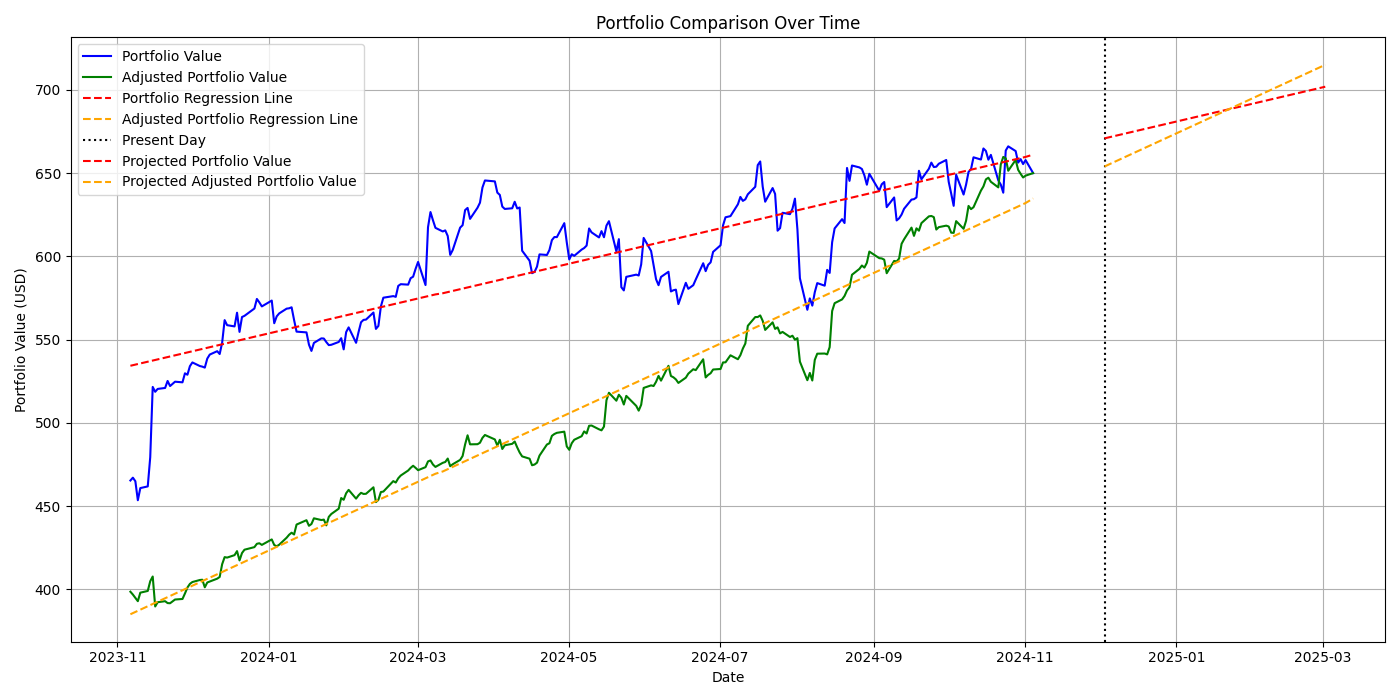
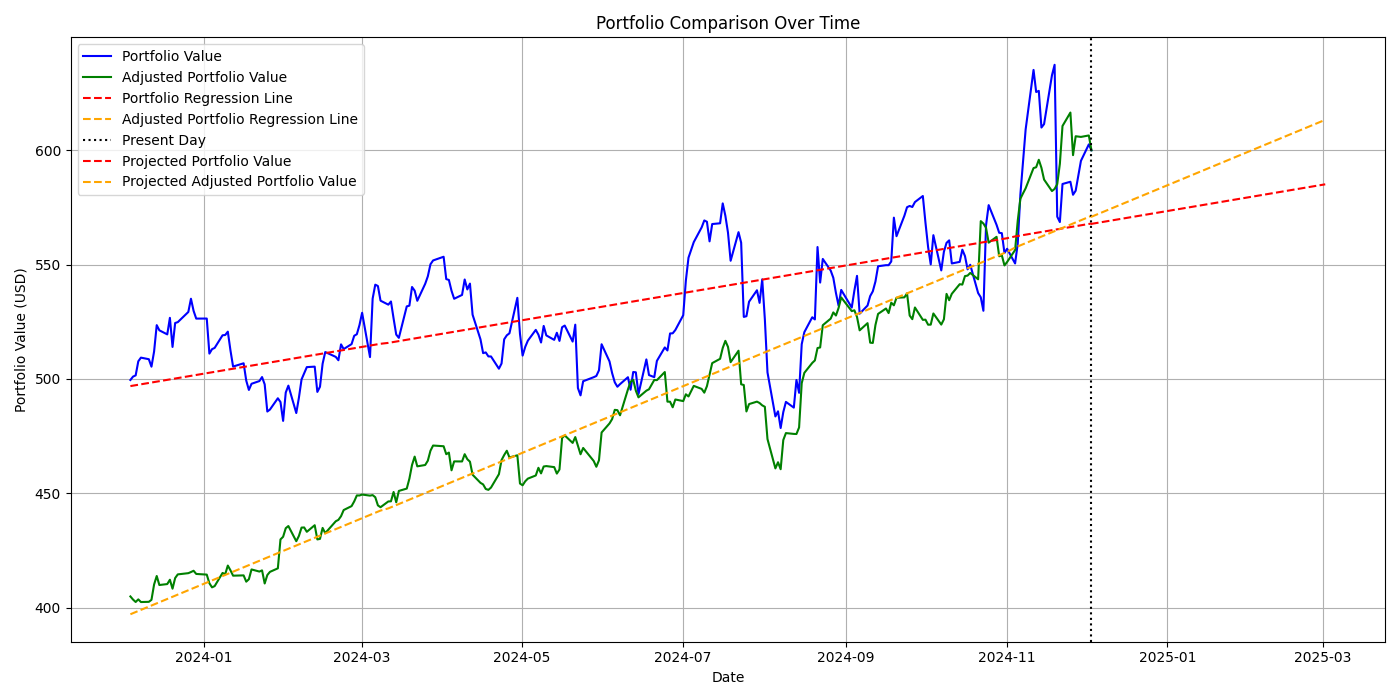
changed results page GUI

diff --git a/templates/results.html b/templates/results.html
@@ -20,18 +20,130 @@
         .data-table th {
             background-color: #f2f2f2;
         }
+        .flex-container {
+            display: flex;
+            flex-wrap: wrap;
+            gap: 20px;
+            align-items: center;
+            justify-content: center;
+            margin-bottom: 40px;
+        }
+        .flex-item {
+            flex: 1 1 45%;
+            max-width: 45%;
+            text-align: center;
+        }
+        .flex-item img {
+            width: 100%;
+            height: auto;
+            max-width: 500px;
+            margin-top: 20px;
+        }
+        .section {
+            margin-bottom: 40px;
+        }
     </style>
 </head>
+<script>
+    // Wait for the document to fully load
+    document.addEventListener("DOMContentLoaded", function () {
+        // Select all tables with the class 'data-table'
+        const tables = document.querySelectorAll(".data-table");
+
+        tables.forEach(table => {
+            // Add rounded corners to the table
+            table.style.borderCollapse = "separate";
+            table.style.borderSpacing = "0";
+            table.style.borderRadius = "8px";
+            table.style.overflow = "hidden";
+
+            // Add box shadow for aesthetics
+            table.style.boxShadow = "0px 4px 10px rgba(0, 0, 0, 0.1)";
+
+            // Adjust font size and cell padding
+            table.style.fontSize = "16px";
+            const cells = table.querySelectorAll("th, td");
+            cells.forEach(cell => {
+                cell.style.padding = "12px";
+                cell.style.border = "1px solid #ddd";
+                cell.style.textAlign = "center";
+            });
+
+            // Style the header row
+            const headers = table.querySelectorAll("th");
+            headers.forEach(header => {
+                header.style.backgroundColor = "#f2f2f2";
+            });
+
+            // Add hover effect for table rows
+            const rows = table.querySelectorAll("tbody tr");
+            rows.forEach(row => {
+                row.addEventListener("mouseover", () => {
+                    row.style.backgroundColor = "#f1f1f1";
+                });
+                row.addEventListener("mouseout", () => {
+                    row.style.backgroundColor = "";
+                });
+            });
+
+            // Highlight volatility cells based on their values
+            const volatilityCells = table.querySelectorAll("td:nth-child(3)"); // Assuming the 3rd column is Volatility
+            volatilityCells.forEach(cell => {
+                const value = cell.textContent.trim();
+
+                // Apply background color based on volatility category
+                if (value === "Low Volatility") {
+                    cell.style.backgroundColor = "#d4edda"; // Greenish
+                } else if (value === "Moderate Volatility") {
+                    cell.style.backgroundColor = "#fff3cd"; // Yellowish
+                } else if (value === "High Volatility") {
+                    cell.style.backgroundColor = "#f8d7da"; // Light Reddish
+                } else if (value === "Extreme Volatility") {
+                    cell.style.backgroundColor = "#f5c6cb"; // Darker Reddish
+                }
+            });
+        });
+    });
+</script>
+
 <body>
     <h1>Stock Data Results</h1>
-    <div class="results-container">
-        <table class="data-table">
-            {{ tables | safe }}
-        </table>
+
+    <div class="section">
+        <h2>User Portfolio</h2>
+        <div class="flex-container">
+            <div class="flex-item">
+                <table class="data-table">
+                    {{ table1 | safe }}
+                </table>
+            </div>
+            <div class="flex-item">
+                <img src="{{ url_for('static', filename='images/user_portfolio_projection.png') }}" alt="User Portfolio Projection">
+            </div>
+        </div>
     </div>
-    <div class="plot-container">
-        <h2>Portfolio Comparison Plot</h2>
-        <img src="{{ url_for('static', filename='images/portfolio_plot.png') }}" alt="Portfolio Comparison Plot">
+
+    <div class="section">
+        <h2>Suggested Portfolio</h2>
+        <div class="flex-container">
+            <div class="flex-item">
+                <table class="data-table">
+                    {{ table2 | safe }}
+                </table>
+            </div>
+            <div class="flex-item">
+                <img src="{{ url_for('static', filename='images/suggested_portfolio_projection.png') }}" alt="Suggested Portfolio Projection">
+            </div>
+        </div>
+    </div>
+
+    <div class="section">
+        <h2>Comparison of Regression Lines</h2>
+        <div class="flex-container">
+            <div class="flex-item">
+                <img src="{{ url_for('static', filename='images/comparison_regression_lines.png') }}" alt="Comparison of Regression Lines">
+            </div>
+        </div>
     </div>
 </body>
 </html>

diff --git a/volatility.py b/volatility.py
@@ -4,7 +4,6 @@ import pandas as pd
 import matplotlib.pyplot as plt
 import numpy as np
 
-tickers = ['AAPL', 'GOOGL', 'AMZN', 'MSFT', 'TSLA']
 
 def calculate_volatility(ticker):
     stock = yf.Ticker(ticker)
@@ -12,7 +11,7 @@ def calculate_volatility(ticker):
     volatility = hist['Close'].pct_change().std() * (252 ** 0.5)
     return volatility
 
-def plot_two_portfolios_with_regression(portfolio_list, adjusted_portfolio_list, amount, close_prices_df):
+def plot_three_portfolios_with_regression(portfolio_list, adjusted_portfolio_list, amount, close_prices_df):
     # Ensure the 'Date' column is in datetime format and convert to UTC (or remove timezone)
     close_prices_df['Date'] = pd.to_datetime(close_prices_df['Date'], utc=True).dt.tz_convert(None)
 
@@ -29,69 +28,120 @@ def plot_two_portfolios_with_regression(portfolio_list, adjusted_portfolio_list,
     portfolio_value = calculate_portfolio_value(portfolio_list, amount, close_prices_df)
     adjusted_portfolio_value = calculate_portfolio_value(adjusted_portfolio_list, amount, close_prices_df)
 
-    # Plot the portfolio values
-    plt.figure(figsize=(14, 7))
-    plt.plot(portfolio_value.index, portfolio_value, label='Portfolio Value', color='blue')
-    plt.plot(adjusted_portfolio_value.index, adjusted_portfolio_value, label='Adjusted Portfolio Value', color='green')
-
-    # Add regression lines for both portfolios
+    # Calculate regression lines
     date_numeric = (portfolio_value.index - portfolio_value.index.min()).days
-    coefficients = np.polyfit(date_numeric, portfolio_value, 1)
-    regression_line = np.polyval(coefficients, date_numeric)
-    plt.plot(portfolio_value.index, regression_line, label='Portfolio Regression Line', color='red', linestyle='--')
+    portfolio_coefficients = np.polyfit(date_numeric, portfolio_value, 1)
+    portfolio_regression_line = np.polyval(portfolio_coefficients, date_numeric)
 
     adjusted_date_numeric = (adjusted_portfolio_value.index - adjusted_portfolio_value.index.min()).days
     adjusted_coefficients = np.polyfit(adjusted_date_numeric, adjusted_portfolio_value, 1)
     adjusted_regression_line = np.polyval(adjusted_coefficients, adjusted_date_numeric)
-    plt.plot(adjusted_portfolio_value.index, adjusted_regression_line, label='Adjusted Portfolio Regression Line', color='orange', linestyle='--')
 
-    # Add vertical line for present day
-    present_day = pd.Timestamp.now().normalize()  # Get today's date without time
+    # Get present day for the vertical line
+    present_day = pd.Timestamp.now().normalize()
+
+    # Create a date range up to 3 months into the future (no past extension)
+    end_date = present_day + pd.Timedelta(days=90)
+    extended_dates = pd.date_range(start=portfolio_value.index.min(), end=end_date)
+
+    # Map the extended dates to numeric values for regression line projection
+    extended_numeric = (extended_dates - portfolio_value.index.min()).days
+    extended_portfolio_regression = np.polyval(portfolio_coefficients, extended_numeric)
+    extended_adjusted_regression = np.polyval(adjusted_coefficients, extended_numeric)
+
+    # 1. Projection for User's Portfolio
+    plt.figure(figsize=(10, 6))
+    plt.plot(portfolio_value.index, portfolio_value, label='Portfolio Value', color='blue')
+    plt.plot(extended_dates, extended_portfolio_regression, label='Regression Line', color='red', linestyle='--')
     plt.axvline(x=present_day, color='black', linestyle=':', label='Present Day')
-
-    # Project future values for the next 3 months
-    future_dates = pd.date_range(start=present_day, periods=90, freq='D')
-    future_numeric = (future_dates - portfolio_value.index.min()).days
-
-    # Calculate projected values
-    projected_portfolio_values = np.polyval(coefficients, future_numeric)
-    projected_adjusted_values = np.polyval(adjusted_coefficients, future_numeric)
-
-    # Plot projections
-    plt.plot(future_dates, projected_portfolio_values, label='Projected Portfolio Value', color='red', linestyle='--')
-    plt.plot(future_dates, projected_adjusted_values, label='Projected Adjusted Portfolio Value', color='orange', linestyle='--')
-
-    # Plot formatting
-    plt.title('Portfolio Comparison Over Time')
+    plt.title('User Portfolio Projection with Regression')
     plt.xlabel('Date')
     plt.ylabel('Portfolio Value (USD)')
-    plt.grid(True)
     plt.legend()
-
+    plt.grid(True)
     plt.tight_layout()
-    plt.savefig('static/images/portfolio_plot.png')
+    plt.savefig('static/images/user_portfolio_projection.png')
     plt.close()
 
-def create_table(tickers):
+    # 2. Projection for Program's Suggested Portfolio
+    plt.figure(figsize=(10, 6))
+    plt.plot(adjusted_portfolio_value.index, adjusted_portfolio_value, label='Adjusted Portfolio Value', color='green')
+    plt.plot(extended_dates, extended_adjusted_regression, label='Regression Line', color='orange', linestyle='--')
+    plt.axvline(x=present_day, color='black', linestyle=':', label='Present Day')
+    plt.title('Suggested Portfolio Projection with Regression')
+    plt.xlabel('Date')
+    plt.ylabel('Portfolio Value (USD)')
+    plt.legend()
+    plt.grid(True)
+    plt.tight_layout()
+    plt.savefig('static/images/suggested_portfolio_projection.png')
+    plt.close()
+
+    # 3. Comparison of Both Regression Lines
+    plt.figure(figsize=(10, 6))
+    plt.plot(extended_dates, extended_portfolio_regression, label='User Portfolio Regression', color='red', linestyle='--')
+    plt.plot(extended_dates, extended_adjusted_regression, label='Suggested Portfolio Regression', color='orange', linestyle='--')
+    plt.axvline(x=present_day, color='black', linestyle=':', label='Present Day')
+    plt.xlim(portfolio_value.index.min(), end_date)  # Match the first two graphs
+    plt.title('Comparison of Regression Lines (Aligned with First Two Graphs)')
+    plt.xlabel('Date')
+    plt.ylabel('Portfolio Value (USD)')
+    plt.legend()
+    plt.grid(True)
+    plt.tight_layout()
+    plt.savefig('static/images/comparison_regression_lines.png')
+    plt.close()
+
+
+def categorize_volatility(volatility):
+    """Categorize volatility into user-friendly buckets."""
+    if volatility <= 0.25:
+        return "Low Volatility"
+    elif volatility <= 0.5:
+        return "Moderate Volatility"
+    elif volatility <= 0.75:
+        return "High Volatility"
+    else:
+        return "Extreme Volatility"
+
+def create_tables_with_buckets(tickers):
     sp500_tickers = pd.read_csv('sp500_tickers_full_info.csv')
 
-    table = pd.DataFrame()
+    current_table = pd.DataFrame(columns=['Ticker', 'Industry', 'Volatility'])
+    suggested_table = pd.DataFrame(columns=['Suggested Ticker', 'Industry', 'Suggested Volatility'])
+
     for ticker in tickers:
         stock = yf.Ticker(ticker)
         info = stock.info
         
-        industry = info['industry']
+        # Get the industry of the stock
+        industry = info.get('industry', 'Unknown')
         
+        # Calculate the volatility of the stock
         volatility = calculate_volatility(ticker)
+        categorized_volatility = categorize_volatility(volatility)
         
+        # Filter S&P 500 stocks in the same industry
         sp500_tickers_industry = sp500_tickers[sp500_tickers['industry'] == industry]
         
+        # Calculate volatilities for all stocks in the same industry
         sp500_tickers_industry['volatility'] = sp500_tickers_industry['Ticker'].apply(calculate_volatility)
         
+        # Find the stock with the lowest volatility
         min_volatility = sp500_tickers_industry.loc[sp500_tickers_industry['volatility'].idxmin()]
+        suggested_volatility = min_volatility['volatility']
+        categorized_suggested_volatility = categorize_volatility(suggested_volatility)
         
-        
-        table = table._append({'Ticker': ticker, 'Industry': industry, 'Volatility': volatility, "Suggested Ticker" : min_volatility['Ticker'], "Suggested Company Volatility" : min_volatility['volatility']}, ignore_index=True)
-    return table
+        # Append data to the respective tables
+        current_table = current_table._append(
+            {'Ticker': ticker, 'Industry': industry, 'Volatility': categorized_volatility},
+            ignore_index=True
+        )
+        suggested_table = suggested_table._append(
+            {'Suggested Ticker': min_volatility['Ticker'], 'Industry': industry, 'Suggested Volatility': categorized_suggested_volatility},
+            ignore_index=True
+        )
+
+    return current_table, suggested_table
 
 

diff --git a/app.py b/app.py
@@ -1,7 +1,7 @@
 import yfinance as yf
 import pandas as pd
 from flask import Flask, render_template, request
-from volatility import calculate_volatility, plot_two_portfolios_with_regression, create_table
+from volatility import calculate_volatility, plot_three_portfolios_with_regression, create_tables_with_buckets
 import matplotlib
 matplotlib.use('Agg')  # Use a backend that doesn't require a display
 
@@ -33,21 +33,19 @@ def submit():
     
     prices_list = [float(price.strip()) for price in prices_list]
         
-    table = create_table(valid_tickers)
+    table1, table2 = create_tables_with_buckets(valid_tickers)
     
-    print(table)
         
     all_closings = pd.read_csv('closingPrices.csv')
-    ticker_list = table['Ticker'].tolist()
-    suggested_ticker_list = table['Suggested Ticker'].tolist()
+    ticker_list = table1['Ticker'].tolist()
+    suggested_ticker_list = table2['Suggested Ticker'].tolist()
     
-    print(ticker_list)
-    print(suggested_ticker_list)
-
-    plot_two_portfolios_with_regression(ticker_list,suggested_ticker_list,prices_list, all_closings )
 
 
-    return render_template('results.html', tables=table.to_html(classes='data-table', index=False))
+    plot_three_portfolios_with_regression(ticker_list,suggested_ticker_list,prices_list, all_closings )
+
+
+    return render_template('results.html', table1=table1.to_html(classes='data-table', index=False), table2=table2.to_html(classes='data-table', index=False))
 
 if __name__ == '__main__':
     app.run(debug=True)

diff --git a/csvWriting.py b/csvWriting.py
@@ -6,7 +6,6 @@ import pandas as pd
 ticker = 'AAPL'
 
 sp500_tickers = pd.read_html('https://en.wikipedia.org/wiki/List_of_S%26P_500_companies')[0]['Symbol'].tolist()
-print(sp500_tickers)
 
 data = []
 
